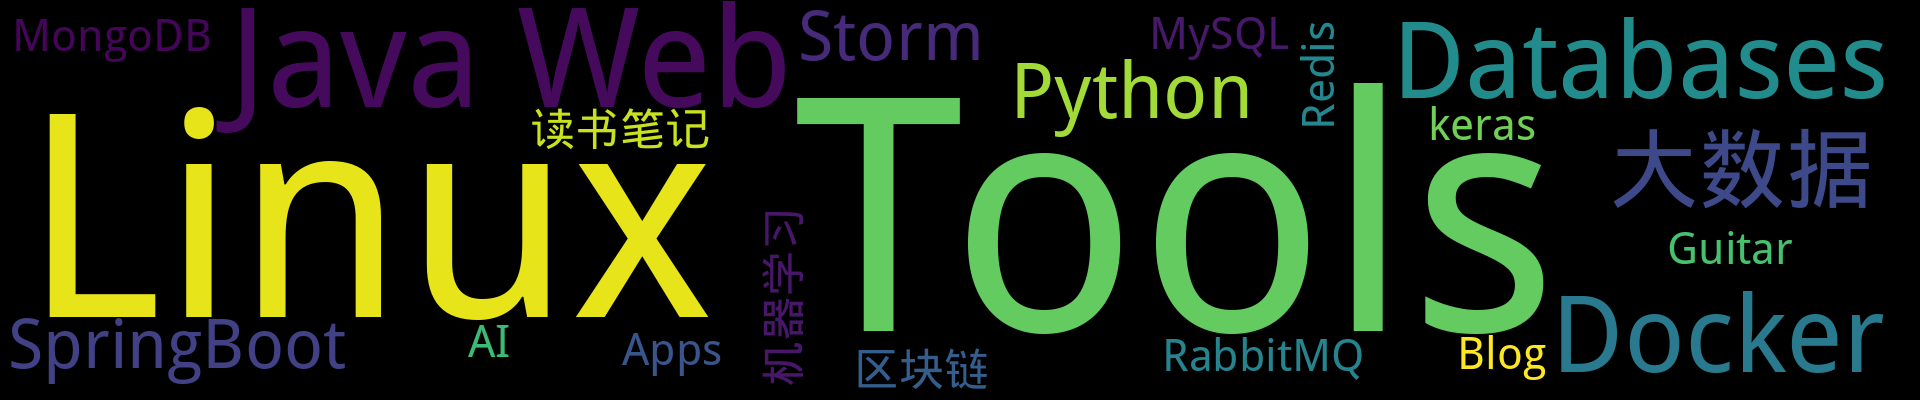
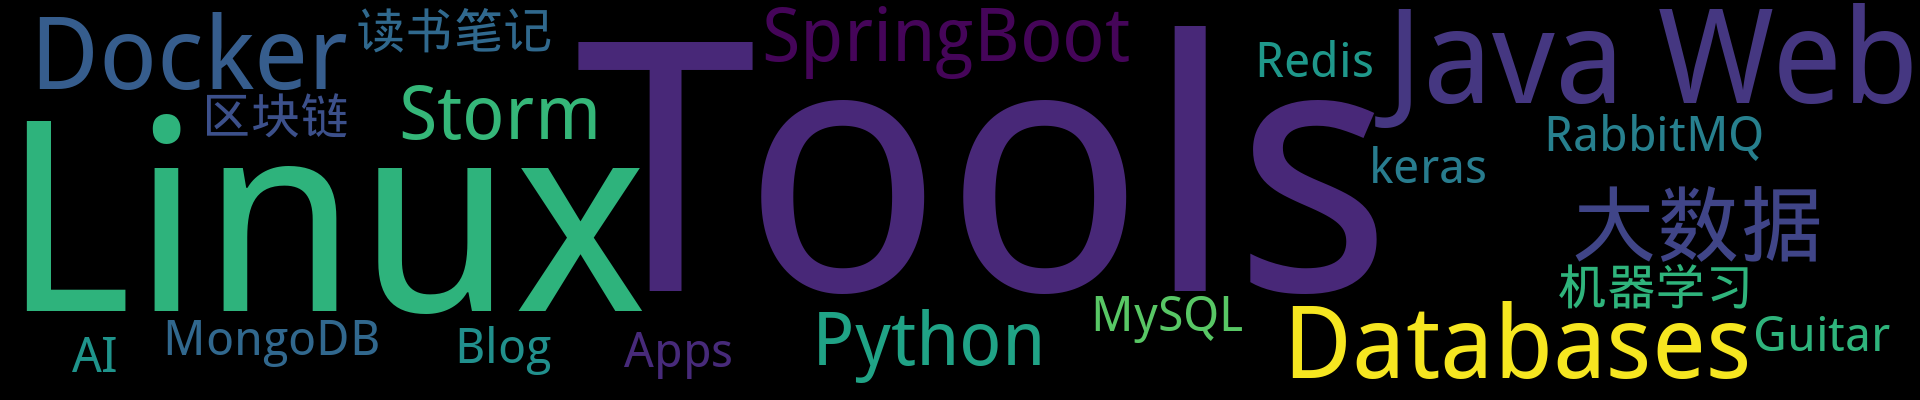
Update from Github Action

diff --git a/README.md b/README.md
@@ -1,20 +1,20 @@
 
 <p align='center'>
     <img src="https://badgen.net/github/issues/johnnian//Blog"/>
-    <img src="https://badgen.net/badge/last-commit/2022-11-10 16:20:22"/>
+    <img src="https://badgen.net/badge/last-commit/2022-11-10 16:26:39"/>
     <img src="https://badgen.net/github/forks/johnnian//Blog"/>
     <img src="https://badgen.net/github/stars/johnnian//Blog"/>
     <img src="https://badgen.net/github/watchers/johnnian//Blog"/>
 </p>
     
 <summary>
-    <img src="assets/wordcloud.png" title="词云" alt="词云" href="https://johnnian.github.io/Blog/">
+    <img src="assets/wordcloud.png" title="词云" alt="词云" href="https://johnnian.github.io//Blog/">
 </summary>  
 
 <details open>
 <summary>AI	[1篇]</summary>
 
-- [Keras入门—Hello,World](https://github.com/johnnian/Blog/issues/69)   - 20190922|0评论  	 
+- 2019-09-22 [Keras入门—Hello,World](https://github.com/johnnian/Blog/issues/69) 
 
 
 </details>
@@ -22,7 +22,7 @@
 <details open>
 <summary>Apps	[1篇]</summary>
 
-- [iOS开发入门](https://github.com/johnnian/Blog/issues/4)   - 20170629|0评论  	 
+- 2017-06-29 [iOS开发入门](https://github.com/johnnian/Blog/issues/4) 
 
 
 </details>
@@ -30,7 +30,7 @@
 <details open>
 <summary>Blog	[1篇]</summary>
 
-- [使用Github Issues 与 Github Actions写技术博客](https://github.com/johnnian/Blog/issues/74)   - 20221110|0评论  	 
+- 2022-11-10 [使用Github Issues 与 Github Actions写技术博客](https://github.com/johnnian/Blog/issues/74) 
 
 
 </details>
@@ -38,12 +38,12 @@
 <details open>
 <summary>Databases	[6篇]</summary>
 
-- [H2数据库集群搭建(主从结构)](https://github.com/johnnian/Blog/issues/26)   - 20170802|0评论  	 
-- [H2数据库安装与使用(单点)](https://github.com/johnnian/Blog/issues/24)   - 20170728|2评论  	 
-- [生产环境部署Redis Cluster集群](https://github.com/johnnian/Blog/issues/9)   - 20170630|0评论  	 
-- [MongoDB 副本集部署-3.6版本](https://github.com/johnnian/Blog/issues/8)   - 20170630|1评论  	 
-- [Oracle 命令行小结](https://github.com/johnnian/Blog/issues/3)   - 20170629|0评论  	 
-- [Redis安装、配置及使用(单机版)](https://github.com/johnnian/Blog/issues/2)   - 20170629|0评论  	 
+- 2017-08-02 [H2数据库集群搭建(主从结构)](https://github.com/johnnian/Blog/issues/26) 
+- 2017-07-28 [H2数据库安装与使用(单点)](https://github.com/johnnian/Blog/issues/24) 
+- 2017-06-30 [生产环境部署Redis Cluster集群](https://github.com/johnnian/Blog/issues/9) 
+- 2017-06-30 [MongoDB 副本集部署-3.6版本](https://github.com/johnnian/Blog/issues/8) 
+- 2017-06-29 [Oracle 命令行小结](https://github.com/johnnian/Blog/issues/3) 
+- 2017-06-29 [Redis安装、配置及使用(单机版)](https://github.com/johnnian/Blog/issues/2) 
 
 
 </details>
@@ -51,12 +51,12 @@
 <details open>
 <summary>Docker	[6篇]</summary>
 
-- [ Docker容器—CentOS中文乱码/时区混乱问题](https://github.com/johnnian/Blog/issues/70)   - 20200128|0评论  	 
-- [Docker容器—HBase安装](https://github.com/johnnian/Blog/issues/38)   - 20171010|3评论  	 
-- [Kubernetes—使用Minikube搭建Nginx集群](https://github.com/johnnian/Blog/issues/32)   - 20170905|0评论  	 
-- [Kubernetes—简介以及部署方案](https://github.com/johnnian/Blog/issues/30)   - 20170823|0评论  	 
-- [Docker固定IP设置](https://github.com/johnnian/Blog/issues/16)   - 20170711|5评论  	 
-- [Docker容器启动后自运行脚本的配置](https://github.com/johnnian/Blog/issues/13)   - 20170705|1评论  	 
+- 2020-01-28 [ Docker容器—CentOS中文乱码/时区混乱问题](https://github.com/johnnian/Blog/issues/70) 
+- 2017-10-10 [Docker容器—HBase安装](https://github.com/johnnian/Blog/issues/38) 
+- 2017-09-05 [Kubernetes—使用Minikube搭建Nginx集群](https://github.com/johnnian/Blog/issues/32) 
+- 2017-08-23 [Kubernetes—简介以及部署方案](https://github.com/johnnian/Blog/issues/30) 
+- 2017-07-11 [Docker固定IP设置](https://github.com/johnnian/Blog/issues/16) 
+- 2017-07-05 [Docker容器启动后自运行脚本的配置](https://github.com/johnnian/Blog/issues/13) 
 
 
 </details>
@@ -64,7 +64,7 @@
 <details open>
 <summary>Guitar	[1篇]</summary>
 
-- [乐理知识系列之和弦](https://github.com/johnnian/Blog/issues/54)   - 20180707|8评论  	 
+- 2018-07-07 [乐理知识系列之和弦](https://github.com/johnnian/Blog/issues/54) 
 
 
 </details>
@@ -72,17 +72,17 @@
 <details open>
 <summary>Java Web	[11篇]</summary>
 
-- [Springboot系列之—war包部署&配置文件分离](https://github.com/johnnian/Blog/issues/59)   - 20190328|0评论  	 
-- [Springboot系列之—动态配置logback路径](https://github.com/johnnian/Blog/issues/58)   - 20190328|6评论  	 
-- [BMP图片详解](https://github.com/johnnian/Blog/issues/51)   - 20180411|0评论  	 
-- [SpringBoot系列之—Apache Shiro整合](https://github.com/johnnian/Blog/issues/50)   - 20180228|0评论  	 
-- [SpringBoot系列之—日志打印的问题(经验总结)](https://github.com/johnnian/Blog/issues/42)   - 20171118|0评论  	 
-- [SpringBoot系列之—瘦身部署](https://github.com/johnnian/Blog/issues/41)   - 20171112|9评论  	 
-- [SpringBoot系列之—Web开发实战](https://github.com/johnnian/Blog/issues/39)   - 20171104|0评论  	 
-- [Java基础—线程安全与锁](https://github.com/johnnian/Blog/issues/37)   - 20170930|0评论  	 
-- [Java基础—NIO基础概念](https://github.com/johnnian/Blog/issues/36)   - 20170929|0评论  	 
-- [Gson转换JSON的坑](https://github.com/johnnian/Blog/issues/11)   - 20170703|0评论  	 
-- [Tomcat安全加固](https://github.com/johnnian/Blog/issues/10)   - 20170703|0评论  	 
+- 2019-03-28 [Springboot系列之—war包部署&配置文件分离](https://github.com/johnnian/Blog/issues/59) 
+- 2019-03-28 [Springboot系列之—动态配置logback路径](https://github.com/johnnian/Blog/issues/58) 
+- 2018-04-11 [BMP图片详解](https://github.com/johnnian/Blog/issues/51) 
+- 2018-02-28 [SpringBoot系列之—Apache Shiro整合](https://github.com/johnnian/Blog/issues/50) 
+- 2017-11-18 [SpringBoot系列之—日志打印的问题(经验总结)](https://github.com/johnnian/Blog/issues/42) 
+- 2017-11-12 [SpringBoot系列之—瘦身部署](https://github.com/johnnian/Blog/issues/41) 
+- 2017-11-04 [SpringBoot系列之—Web开发实战](https://github.com/johnnian/Blog/issues/39) 
+- 2017-09-30 [Java基础—线程安全与锁](https://github.com/johnnian/Blog/issues/37) 
+- 2017-09-29 [Java基础—NIO基础概念](https://github.com/johnnian/Blog/issues/36) 
+- 2017-07-03 [Gson转换JSON的坑](https://github.com/johnnian/Blog/issues/11) 
+- 2017-07-03 [Tomcat安全加固](https://github.com/johnnian/Blog/issues/10) 
 
 
 </details>
@@ -90,7 +90,7 @@
 <details open>
 <summary>keras	[1篇]</summary>
 
-- [Keras入门—Hello,World](https://github.com/johnnian/Blog/issues/69)   - 20190922|0评论  	 
+- 2019-09-22 [Keras入门—Hello,World](https://github.com/johnnian/Blog/issues/69) 
 
 
 </details>
@@ -98,18 +98,18 @@
 <details open>
 <summary>Linux	[12篇]</summary>
 
-- [ Redhat 6 ：This system is not registered to Red Hat Subscription Management](https://github.com/johnnian/Blog/issues/56)   - 20181120|0评论  	 
-- [Connector/Python安装—使用Python连接MySQL](https://github.com/johnnian/Blog/issues/55)   - 20181116|0评论  	 
-- [CentOS 7 安装JDK](https://github.com/johnnian/Blog/issues/53)   - 20180514|1评论  	 
-- [CentOS 7 搭建局域网VPN-Shadowsocks](https://github.com/johnnian/Blog/issues/48)   - 20180212|1评论  	 
-- [CentOS 7 更改网卡名](https://github.com/johnnian/Blog/issues/47)   - 20180209|2评论  	 
-- [ SSH使用问题以及解决方案(expecting SSH2_MSG_KEX_ECDH_REPLY)](https://github.com/johnnian/Blog/issues/44)   - 20180125|4评论  	 
-- [autossh内外网穿透方法](https://github.com/johnnian/Blog/issues/43)   - 20180111|1评论  	 
-- [Linux Socket Exception](https://github.com/johnnian/Blog/issues/35)   - 20170925|0评论  	 
-- [CentOS 安装 Ruby 2.3.0](https://github.com/johnnian/Blog/issues/33)   - 20170907|0评论  	 
-- [Supervisor 安装使用](https://github.com/johnnian/Blog/issues/27)   - 20170810|0评论  	 
-- [CentOS 6 配置：Keepalived + Nginx](https://github.com/johnnian/Blog/issues/19)   - 20170713|0评论  	 
-- [CentOS开机启动脚本](https://github.com/johnnian/Blog/issues/15)   - 20170705|0评论  	 
+- 2018-11-20 [ Redhat 6 ：This system is not registered to Red Hat Subscription Management](https://github.com/johnnian/Blog/issues/56) 
+- 2018-11-16 [Connector/Python安装—使用Python连接MySQL](https://github.com/johnnian/Blog/issues/55) 
+- 2018-05-14 [CentOS 7 安装JDK](https://github.com/johnnian/Blog/issues/53) 
+- 2018-02-12 [CentOS 7 搭建局域网VPN-Shadowsocks](https://github.com/johnnian/Blog/issues/48) 
+- 2018-02-09 [CentOS 7 更改网卡名](https://github.com/johnnian/Blog/issues/47) 
+- 2018-01-25 [ SSH使用问题以及解决方案(expecting SSH2_MSG_KEX_ECDH_REPLY)](https://github.com/johnnian/Blog/issues/44) 
+- 2018-01-11 [autossh内外网穿透方法](https://github.com/johnnian/Blog/issues/43) 
+- 2017-09-25 [Linux Socket Exception](https://github.com/johnnian/Blog/issues/35) 
+- 2017-09-07 [CentOS 安装 Ruby 2.3.0](https://github.com/johnnian/Blog/issues/33) 
+- 2017-08-10 [Supervisor 安装使用](https://github.com/johnnian/Blog/issues/27) 
+- 2017-07-13 [CentOS 6 配置：Keepalived + Nginx](https://github.com/johnnian/Blog/issues/19) 
+- 2017-07-05 [CentOS开机启动脚本](https://github.com/johnnian/Blog/issues/15) 
 
 
 </details>
@@ -117,7 +117,7 @@
 <details open>
 <summary>MongoDB	[1篇]</summary>
 
-- [MongoDB 副本集部署-3.6版本](https://github.com/johnnian/Blog/issues/8)   - 20170630|1评论  	 
+- 2017-06-30 [MongoDB 副本集部署-3.6版本](https://github.com/johnnian/Blog/issues/8) 
 
 
 </details>
@@ -125,7 +125,7 @@
 <details open>
 <summary>MySQL	[1篇]</summary>
 
-- [Connector/Python安装—使用Python连接MySQL](https://github.com/johnnian/Blog/issues/55)   - 20181116|0评论  	 
+- 2018-11-16 [Connector/Python安装—使用Python连接MySQL](https://github.com/johnnian/Blog/issues/55) 
 
 
 </details>
@@ -133,9 +133,9 @@
 <details open>
 <summary>Python	[3篇]</summary>
 
-- [Python系列之—Web脚手架(flask+gunicorn+守护进程)](https://github.com/johnnian/Blog/issues/63)   - 20190428|0评论  	 
-- [开发工具系列之—pyenv：python版本切换](https://github.com/johnnian/Blog/issues/61)   - 20190401|5评论  	 
-- [Connector/Python安装—使用Python连接MySQL](https://github.com/johnnian/Blog/issues/55)   - 20181116|0评论  	 
+- 2019-04-28 [Python系列之—Web脚手架(flask+gunicorn+守护进程)](https://github.com/johnnian/Blog/issues/63) 
+- 2019-04-01 [开发工具系列之—pyenv：python版本切换](https://github.com/johnnian/Blog/issues/61) 
+- 2018-11-16 [Connector/Python安装—使用Python连接MySQL](https://github.com/johnnian/Blog/issues/55) 
 
 
 </details>
@@ -143,7 +143,7 @@
 <details open>
 <summary>RabbitMQ	[1篇]</summary>
 
-- [CentOS6.8 安装 RebbitMQ](https://github.com/johnnian/Blog/issues/7)   - 20170629|0评论  	 
+- 2017-06-29 [CentOS6.8 安装 RebbitMQ](https://github.com/johnnian/Blog/issues/7) 
 
 
 </details>
@@ -151,7 +151,7 @@
 <details open>
 <summary>Redis	[1篇]</summary>
 
-- [生产环境部署Redis Cluster集群](https://github.com/johnnian/Blog/issues/9)   - 20170630|0评论  	 
+- 2017-06-30 [生产环境部署Redis Cluster集群](https://github.com/johnnian/Blog/issues/9) 
 
 
 </details>
@@ -159,9 +159,9 @@
 <details open>
 <summary>SpringBoot	[3篇]</summary>
 
-- [SpringBoot系列之—日志打印的问题(经验总结)](https://github.com/johnnian/Blog/issues/42)   - 20171118|0评论  	 
-- [SpringBoot系列之—瘦身部署](https://github.com/johnnian/Blog/issues/41)   - 20171112|9评论  	 
-- [SpringBoot系列之—Web开发实战](https://github.com/johnnian/Blog/issues/39)   - 20171104|0评论  	 
+- 2017-11-18 [SpringBoot系列之—日志打印的问题(经验总结)](https://github.com/johnnian/Blog/issues/42) 
+- 2017-11-12 [SpringBoot系列之—瘦身部署](https://github.com/johnnian/Blog/issues/41) 
+- 2017-11-04 [SpringBoot系列之—Web开发实战](https://github.com/johnnian/Blog/issues/39) 
 
 
 </details>
@@ -169,32 +169,33 @@
 <details open>
 <summary>Storm	[3篇]</summary>
 
-- [Storm实战—任务部署与调度](https://github.com/johnnian/Blog/issues/23)   - 20170727|0评论  	 
-- [Storm实战—安装部署](https://github.com/johnnian/Blog/issues/22)   - 20170726|2评论  	 
-- [Storm实战—基本概念](https://github.com/johnnian/Blog/issues/21)   - 20170725|0评论  	 
+- 2017-07-27 [Storm实战—任务部署与调度](https://github.com/johnnian/Blog/issues/23) 
+- 2017-07-26 [Storm实战—安装部署](https://github.com/johnnian/Blog/issues/22) 
+- 2017-07-25 [Storm实战—基本概念](https://github.com/johnnian/Blog/issues/21) 
 
 
 </details>
             
 <details open>
-<summary>Tools	[16篇]</summary>
+<summary>Tools	[17篇]</summary>
 
-- [开发工具系列之—GoAcess:Nginx日志分析利器](https://github.com/johnnian/Blog/issues/68)   - 20190723|0评论  	 
-- [开发工具系列之—pyenv：python版本切换](https://github.com/johnnian/Blog/issues/61)   - 20190401|5评论  	 
-- [开发工具系列之— Macos下homebrew更新慢问题的解决](https://github.com/johnnian/Blog/issues/60)   - 20190328|0评论  	 
-- [CentOS 7 安装Gitbook](https://github.com/johnnian/Blog/issues/49)   - 20180227|0评论  	 
-- [CentOS 7 搭建局域网VPN-Shadowsocks](https://github.com/johnnian/Blog/issues/48)   - 20180212|1评论  	 
-- [日志服务—阿里云日志服务使用记录](https://github.com/johnnian/Blog/issues/46)   - 20180209|0评论  	 
-- [ SSH使用问题以及解决方案(expecting SSH2_MSG_KEX_ECDH_REPLY)](https://github.com/johnnian/Blog/issues/44)   - 20180125|4评论  	 
-- [日志服务—使用Flume-NG/Kafaka搭建日志搜集服务](https://github.com/johnnian/Blog/issues/34)   - 20170908|0评论  	 
-- [CentOS 安装 Ruby 2.3.0](https://github.com/johnnian/Blog/issues/33)   - 20170907|0评论  	 
-- [研发工具清单(持续更新)](https://github.com/johnnian/Blog/issues/29)   - 20170822|2评论  	 
-- [Supervisor 安装使用](https://github.com/johnnian/Blog/issues/27)   - 20170810|0评论  	 
-- [Zookeeper安装部署（单点／集群）](https://github.com/johnnian/Blog/issues/25)   - 20170731|0评论  	 
-- [CentOS 6 配置：Keepalived + Nginx](https://github.com/johnnian/Blog/issues/19)   - 20170713|0评论  	 
-- [Tomcat安全加固](https://github.com/johnnian/Blog/issues/10)   - 20170703|0评论  	 
-- [Nginx配置多个HTTPS域名](https://github.com/johnnian/Blog/issues/6)   - 20170629|2评论  	 
-- [Git 常用命令速查表](https://github.com/johnnian/Blog/issues/5)   - 20170629|0评论  	 
+- 2022-11-10 [使用Github Issues 与 Github Actions写技术博客](https://github.com/johnnian/Blog/issues/74) 
+- 2019-07-23 [开发工具系列之—GoAcess:Nginx日志分析利器](https://github.com/johnnian/Blog/issues/68) 
+- 2019-04-01 [开发工具系列之—pyenv：python版本切换](https://github.com/johnnian/Blog/issues/61) 
+- 2019-03-28 [开发工具系列之— Macos下homebrew更新慢问题的解决](https://github.com/johnnian/Blog/issues/60) 
+- 2018-02-27 [CentOS 7 安装Gitbook](https://github.com/johnnian/Blog/issues/49) 
+- 2018-02-12 [CentOS 7 搭建局域网VPN-Shadowsocks](https://github.com/johnnian/Blog/issues/48) 
+- 2018-02-09 [日志服务—阿里云日志服务使用记录](https://github.com/johnnian/Blog/issues/46) 
+- 2018-01-25 [ SSH使用问题以及解决方案(expecting SSH2_MSG_KEX_ECDH_REPLY)](https://github.com/johnnian/Blog/issues/44) 
+- 2017-09-08 [日志服务—使用Flume-NG/Kafaka搭建日志搜集服务](https://github.com/johnnian/Blog/issues/34) 
+- 2017-09-07 [CentOS 安装 Ruby 2.3.0](https://github.com/johnnian/Blog/issues/33) 
+- 2017-08-22 [研发工具清单(持续更新)](https://github.com/johnnian/Blog/issues/29) 
+- 2017-08-10 [Supervisor 安装使用](https://github.com/johnnian/Blog/issues/27) 
+- 2017-07-31 [Zookeeper安装部署（单点／集群）](https://github.com/johnnian/Blog/issues/25) 
+- 2017-07-13 [CentOS 6 配置：Keepalived + Nginx](https://github.com/johnnian/Blog/issues/19) 
+- 2017-07-03 [Tomcat安全加固](https://github.com/johnnian/Blog/issues/10) 
+- 2017-06-29 [Nginx配置多个HTTPS域名](https://github.com/johnnian/Blog/issues/6) 
+- 2017-06-29 [Git 常用命令速查表](https://github.com/johnnian/Blog/issues/5) 
 
 
 </details>
@@ -202,7 +203,7 @@
 <details open>
 <summary>区块链	[1篇]</summary>
 
-- [区块链学习—Hyberledger Fabric 网络搭建入门](https://github.com/johnnian/Blog/issues/71)   - 20201019|0评论  	 
+- 2020-10-19 [区块链学习—Hyberledger Fabric 网络搭建入门](https://github.com/johnnian/Blog/issues/71) 
 
 
 </details>
@@ -210,10 +211,10 @@
 <details open>
 <summary>大数据	[4篇]</summary>
 
-- [Docker容器—HBase安装](https://github.com/johnnian/Blog/issues/38)   - 20171010|3评论  	 
-- [Storm实战—任务部署与调度](https://github.com/johnnian/Blog/issues/23)   - 20170727|0评论  	 
-- [Storm实战—安装部署](https://github.com/johnnian/Blog/issues/22)   - 20170726|2评论  	 
-- [Storm实战—基本概念](https://github.com/johnnian/Blog/issues/21)   - 20170725|0评论  	 
+- 2017-10-10 [Docker容器—HBase安装](https://github.com/johnnian/Blog/issues/38) 
+- 2017-07-27 [Storm实战—任务部署与调度](https://github.com/johnnian/Blog/issues/23) 
+- 2017-07-26 [Storm实战—安装部署](https://github.com/johnnian/Blog/issues/22) 
+- 2017-07-25 [Storm实战—基本概念](https://github.com/johnnian/Blog/issues/21) 
 
 
 </details>
@@ -221,7 +222,7 @@
 <details open>
 <summary>机器学习	[1篇]</summary>
 
-- [机器学习算法系列—介绍](https://github.com/johnnian/Blog/issues/65)   - 20190604|0评论  	 
+- 2019-06-04 [机器学习算法系列—介绍](https://github.com/johnnian/Blog/issues/65) 
 
 
 </details>
@@ -229,7 +230,7 @@
 <details open>
 <summary>读书笔记	[1篇]</summary>
 
-- [《微服务文集 (ThoughtWorks洞见)》](https://github.com/johnnian/Blog/issues/18)   - 20170713|1评论  	 
+- 2017-07-13 [《微服务文集 (ThoughtWorks洞见)》](https://github.com/johnnian/Blog/issues/18) 
 
 
 </details>
